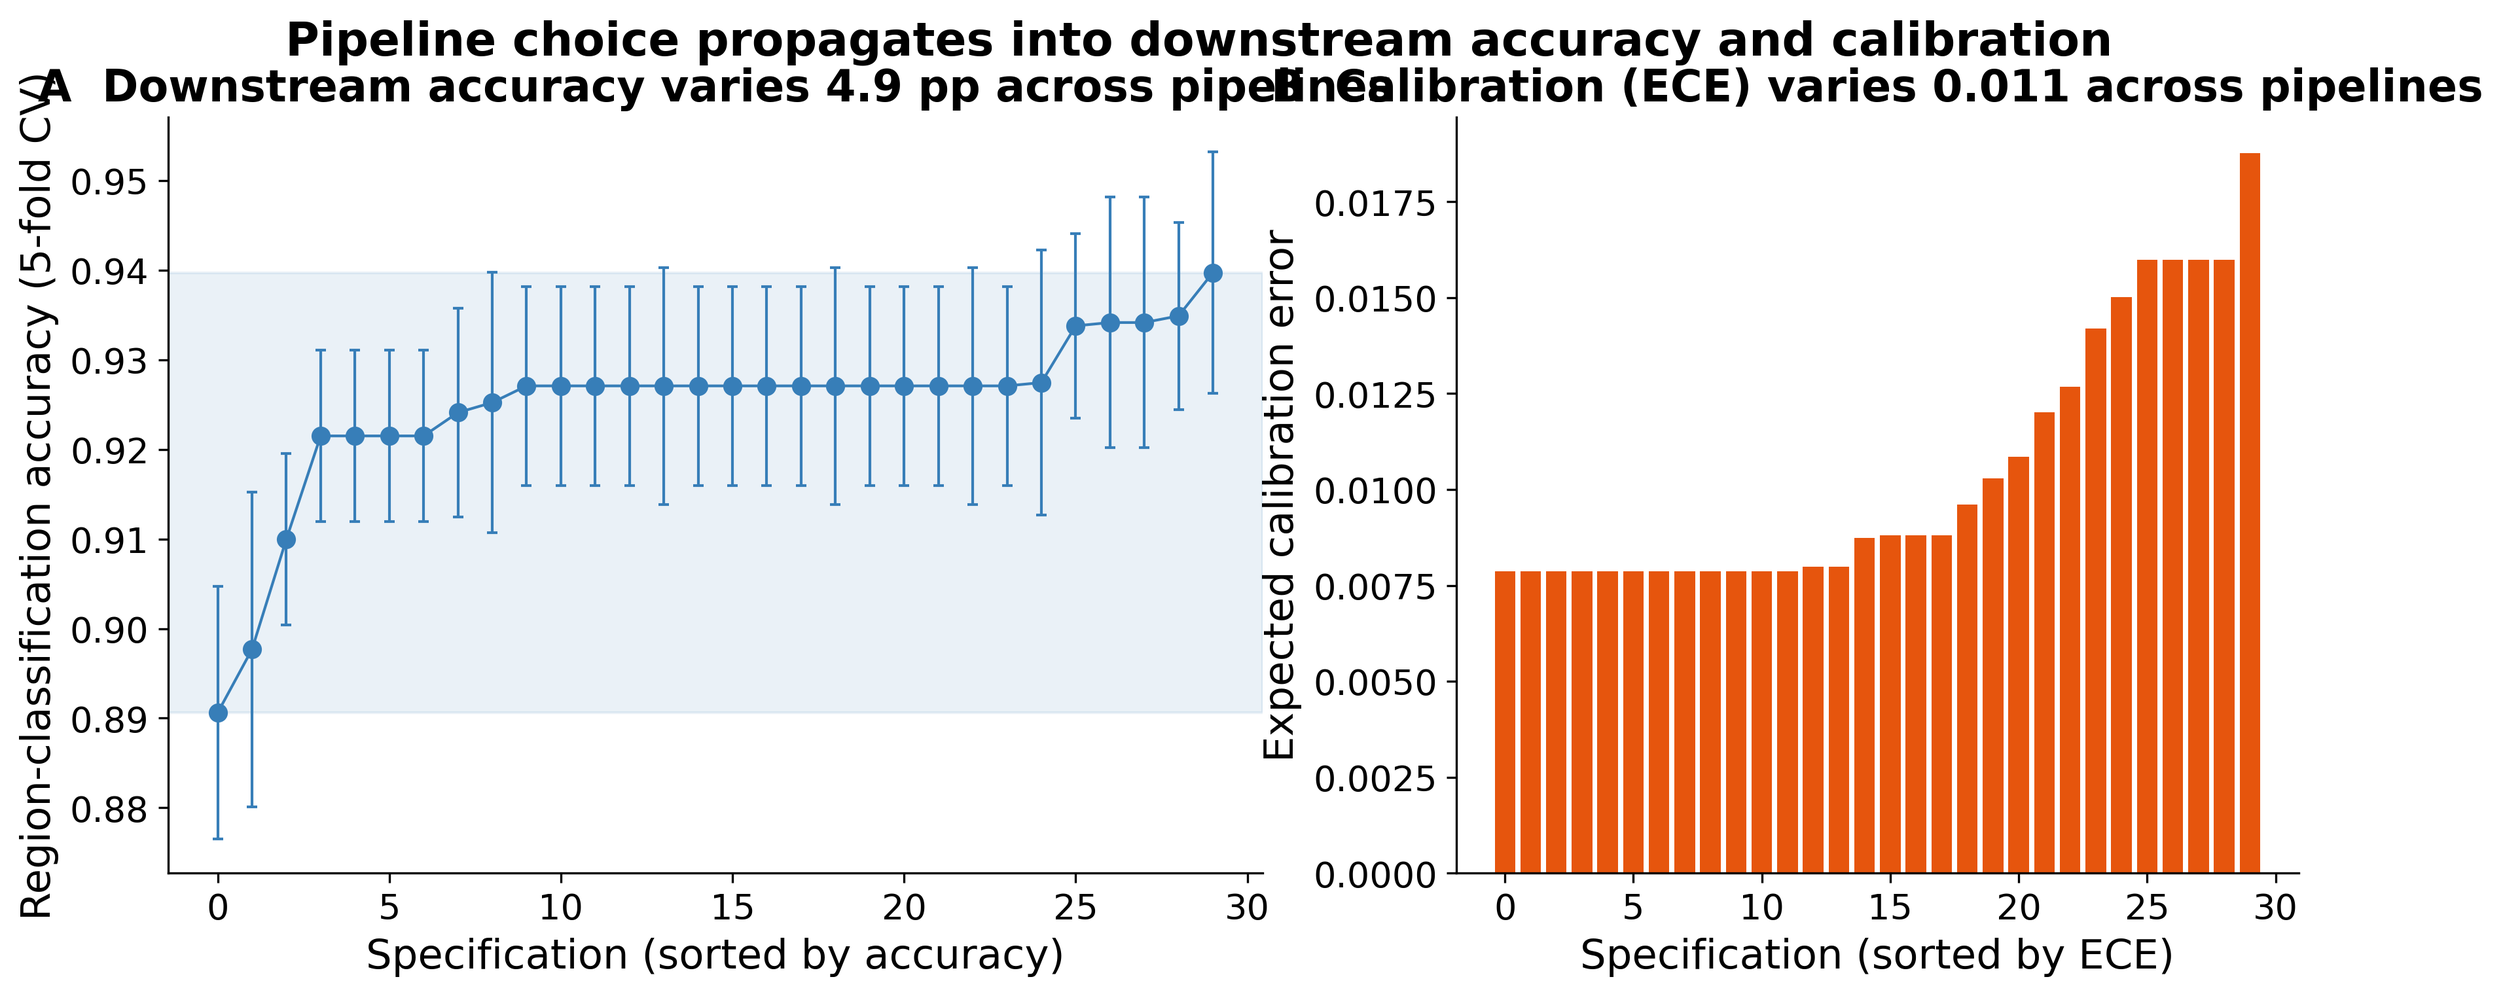
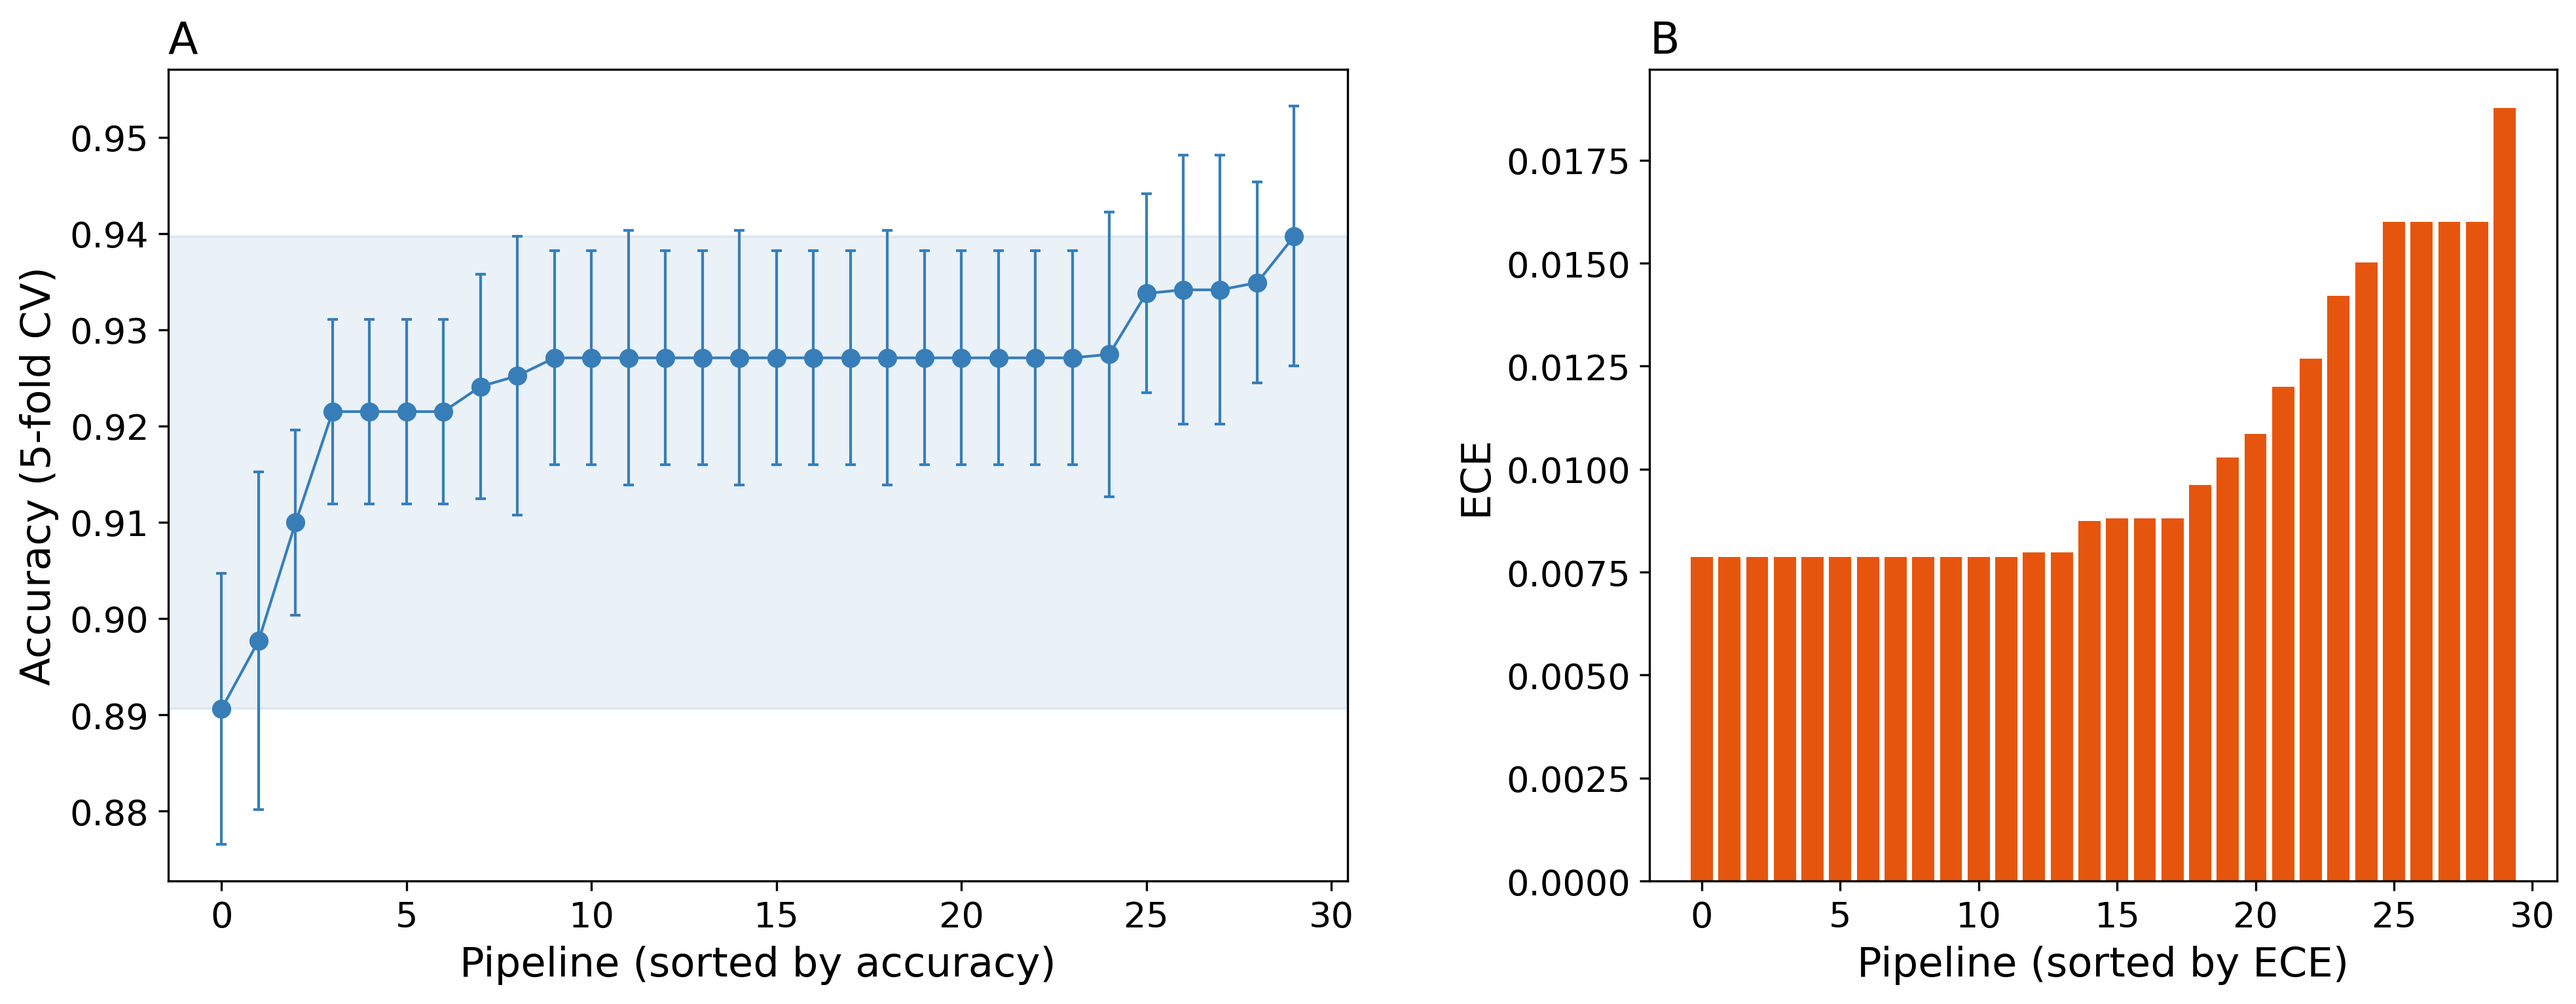
Redraw downstream and consensus figures: short titles, no overlaps

Changed region(s): [[0.0, 0.0, 0.9958, 0.9882], [0.5913, 0.1544, 0.6535, 0.1853]]

diff --git a/mosaic/visualization.py b/mosaic/visualization.py
@@ -43,7 +43,7 @@ plt.rcParams.update(
         "savefig.dpi": 300,
         "font.size": 11,
         "axes.titlesize": 12,
-        "axes.titleweight": "bold",
+        "axes.titleweight": "normal",
         "axes.spines.top": False,
         "axes.spines.right": False,
     }
@@ -162,11 +162,11 @@ def figure1_spec_montage(
     """Five specification clusterings + the per-spot S3 overlay (2x3 grid)."""
     named = _by_name(runs)
     wanted = [
-        ("canonical_seurat", "Canonical: Seurat 3k HVGs, Leiden res=0.5"),
-        ("conservative_2k_hvgs", "Conservative: 2k HVGs"),
-        ("aggressive_5k_hvgs", "Aggressive: 5k HVGs"),
-        ("coarse_res03", "Coarse: Leiden res=0.3"),
-        ("fine_res08", "Fine: Leiden res=0.8"),
+        ("canonical_seurat", "Canonical"),
+        ("conservative_2k_hvgs", "2k HVGs"),
+        ("aggressive_5k_hvgs", "5k HVGs"),
+        ("coarse_res03", "Resolution 0.3"),
+        ("fine_res08", "Resolution 0.8"),
     ]
     # Fall back to the first runs if a named spec is missing.
     picks = [named.get(n) for n, _ in wanted]
@@ -178,20 +178,20 @@ def figure1_spec_montage(
         a = run["adata"]
         n = int(a.obs["leiden"].nunique())
         _spatial_scatter(ax, a.obsm["spatial"], a.obs["leiden"].values,
-                         categorical=True, title=f"{label}\n-> {n} domains")
-        ax.title.set_fontsize(10)
+                         categorical=True, title=f"{label}: {n} domains")
+        ax.title.set_fontsize(14)
 
     # Panel F: S3 overlay on the canonical geometry.
     ref = picks[0]["adata"]
     s3 = per_spot.set_index("spot_id").reindex(ref.obs_names)["s3_score"].values
     scF = _spatial_scatter(axes[5], ref.obsm["spatial"], s3, categorical=False,
-                           title="Spatial Stability Score (S3)", cmap=S3_CMAP, vmin=0, vmax=1)
+                           title="Per-spot S3", cmap=S3_CMAP, vmin=0, vmax=1)
     cb = fig.colorbar(scF, ax=axes[5], fraction=0.046, pad=0.04)
-    cb.set_label("S3 (green robust, red fragile)")
-    axes[5].title.set_fontsize(10)
+    cb.set_label("S3")
+    axes[5].title.set_fontsize(14)
 
     for i, ax in enumerate(axes):
-        ax.text(-0.08, 1.14, chr(ord("A") + i), transform=ax.transAxes,
+        ax.text(-0.08, 1.08, chr(ord("A") + i), transform=ax.transAxes,
                 fontsize=16, fontweight="bold", va="top", ha="left")
 
     fig.tight_layout()

diff --git a/mosaic/downstream.py b/mosaic/downstream.py
@@ -124,24 +124,25 @@ def plot_downstream(df: pd.DataFrame, output_path: Optional[Path] = None) -> Non
     matplotlib.use("Agg")
     import matplotlib.pyplot as plt
 
-    fig, axes = plt.subplots(1, 2, figsize=(14, 5), gridspec_kw={"width_ratios": [1.3, 1]})
+    fig, axes = plt.subplots(1, 2, figsize=(13, 5), layout="constrained",
+                             gridspec_kw={"width_ratios": [1.3, 1], "wspace": 0.08})
 
     d = df.sort_values("accuracy").reset_index(drop=True)
     axes[0].errorbar(range(len(d)), d["accuracy"], yerr=d["accuracy_std"],
                      marker="o", color="#377EB8", capsize=2, lw=1)
     axes[0].axhspan(d["accuracy"].min(), d["accuracy"].max(), color="#377EB8", alpha=0.1)
-    axes[0].set_xlabel("Specification (sorted by accuracy)")
-    axes[0].set_ylabel("Region-classification accuracy (5-fold CV)")
+    axes[0].set_xlabel("Pipeline (sorted by accuracy)")
+    axes[0].set_ylabel("Accuracy (5-fold CV)")
     rng = 100 * (d["accuracy"].max() - d["accuracy"].min())
-    axes[0].set_title("A  Accuracy", fontsize=16, fontweight="bold")
+    axes[0].set_title("A", loc="left")
 
     if "ece" in df.columns:
         de = df.sort_values("ece").reset_index(drop=True)
         axes[1].bar(range(len(de)), de["ece"], color="#E6550D")
-        axes[1].set_xlabel("Specification (sorted by ECE)")
-        axes[1].set_ylabel("Expected calibration error")
+        axes[1].set_xlabel("Pipeline (sorted by ECE)")
+        axes[1].set_ylabel("ECE")
         rng_e = de["ece"].max() - de["ece"].min()
-        axes[1].set_title("B  Calibration error", fontsize=16, fontweight="bold")
+        axes[1].set_title("B", loc="left")
     else:
         axes[1].scatter(df["resolution"], df["accuracy"], c="#984EA3", s=50)
         axes[1].set_xlabel("Clustering resolution")

diff --git a/mosaic/consensus.py b/mosaic/consensus.py
@@ -246,7 +246,7 @@ def plot_consensus_recovery(result: Dict[str, Any], output_path: Optional[Path] 
     import matplotlib.pyplot as plt
 
     table = result["table"]
-    fig, ax = plt.subplots(figsize=(9, 5.5))
+    fig, ax = plt.subplots(figsize=(9, 6), layout="constrained")
     ax.axhspan(result["single_min"], result["single_max"], color="#999999", alpha=0.2,
                label="single-pipeline range")
     ax.axhline(result["single_median"], color="#555555", ls="--", label="median single pipeline")
@@ -256,13 +256,12 @@ def plot_consensus_recovery(result: Dict[str, Any], output_path: Optional[Path] 
         ax.plot(sub["k"], sub["ari"], marker="o", color=colors.get(linkage, "#E6550D"),
                 label=f"consensus ({linkage} linkage)")
     ax.axvline(result["n_reference_regions"], color="#D73027", ls="-", lw=1, alpha=0.6)
-    ax.text(result["n_reference_regions"], ax.get_ylim()[0], " reference\n granularity",
-            color="#D73027", fontsize=12, va="bottom")
-    ax.set_xlabel("Consensus granularity (k domains)")
-    ax.set_ylabel("Anatomy recovery (ARI vs reference)")
-    ax.set_title("Consensus vs single pipelines (ARI with reference)",
-                 fontsize=16, fontweight="bold")
-    ax.legend(fontsize=12, loc="lower right")
+    ax.text(result["n_reference_regions"], ax.get_ylim()[1], " reference k",
+            color="#D73027", fontsize=12, va="top")
+    ax.set_xlabel("Consensus clusters (k)")
+    ax.set_ylabel("ARI with reference")
+    ax.legend(fontsize=12, loc="upper center", bbox_to_anchor=(0.5, -0.15),
+              ncol=2, frameon=False)
     if output_path is not None:
         Path(output_path).parent.mkdir(parents=True, exist_ok=True)
         fig.savefig(output_path, dpi=300, bbox_inches="tight")

diff --git a/mosaic/predict_fragility.py b/mosaic/predict_fragility.py
@@ -297,11 +297,10 @@ def plot_predicted_vs_actual(result: Dict[str, Any], output_path: Optional[Path]
     coords = np.asarray(a.obsm["spatial"])
     fig, axes = plt.subplots(1, 2, figsize=(13, 6))
     sc0 = axes[0].scatter(coords[:, 0], coords[:, 1], c=result["proba"], cmap="magma", s=10)
-    axes[0].set_title("A  Predicted P(S3 < 0.5), one pipeline",
-                      fontsize=16, fontweight="bold")
+    axes[0].set_title("A  Predicted P(S3 < 0.5)")
     sc1 = axes[1].scatter(coords[:, 0], coords[:, 1], c=result["s3"], cmap="RdYlGn",
                           vmin=0, vmax=1, s=10)
-    axes[1].set_title("B  S3 across 30 pipelines", fontsize=16, fontweight="bold")
+    axes[1].set_title("B  S3, 30 pipelines")
     for ax, sc in zip(axes, (sc0, sc1)):
         ax.set_aspect("equal")
         ax.invert_yaxis()

diff --git a/paper_ieee/main.tex b/paper_ieee/main.tex
@@ -412,7 +412,7 @@ $S^3$ distribution and similar pairwise ARI.
 \begin{figure}[t]
   \centering
   \includegraphics[width=0.9\linewidth]{12_downstream_ml.png}
-  \caption{Accuracy and multiclass Brier score of a cross-validated
+  \caption{Accuracy (A) and expected calibration error (B) of a cross-validated
   anatomical-region classifier trained on each curated pipeline's embedding
   of the same mouse-brain section. Accuracy varies by \DownstreamRangePP{}
   percentage points across pipelines.}

diff --git a/mosaic/__init__.py b/mosaic/__init__.py
@@ -12,7 +12,7 @@ def _paper_style() -> None:
     matplotlib.rcParams.update({
         "font.size": 14, "axes.titlesize": 16, "axes.labelsize": 15,
         "xtick.labelsize": 13, "ytick.labelsize": 13, "legend.fontsize": 12,
-        "figure.titlesize": 17,
+        "figure.titlesize": 17, "axes.titleweight": "normal",
     })
 
 
